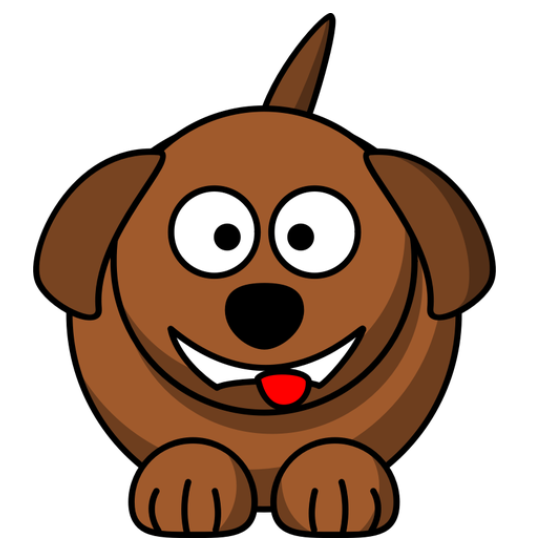
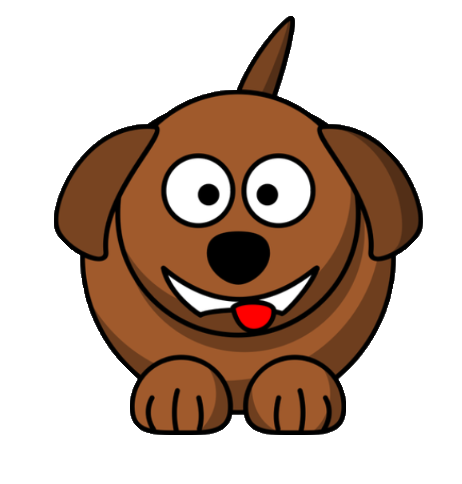
modif image sans fond

diff --git a/caisse.html b/caisse.html
@@ -46,7 +46,7 @@ window.onclick = function(event) {
         <span id="arrow_inner" style="width: 0;height: 0;line-height: 0;border-bottom:30px solid transparent;border-right:30px solid transparent;border-left:30px solid #555555; /* couleur de la bordure de la bulle */position:absolute;bottom:-25px;left:67px;"><span>
     </div>
     <img src="./image/chien.PNG" style="width: 10em; margin-left: 1em;">
-    <img src="./image/caisse.PNG" style="width: 15em">
+    <img src="./image/caisse.png" style="width: 15em">
     <img src="./image/chat.png" style="width: 10em">
 </div>
 <div id="score" style=" margin-bottom: 0.5em;float: right; text-shadow: -1px -1px white, 1px 1px #333;text-align: center; width: 1em; height: 1em; padding:0.5em; font-size: 3em; border-radius: 30px; background-color: orangered; text-decoration: none; color: #333333""></div>

diff --git a/stock.html b/stock.html
@@ -88,7 +88,7 @@ function tostring_item(nom_prod) {
             <script>    tostring_item("cookie");</script></td>
     </tr>
     <tr style="background-color:chocolate;" >
-        <td style="border: solid; border-color: lightgrey">
+        <td>
             <input id="6" alt="macaron" type="image" src="image/macaron.jpg" style="width: 10em">
             <script>    tostring_item("macaron");</script></td>
         <td></td>
